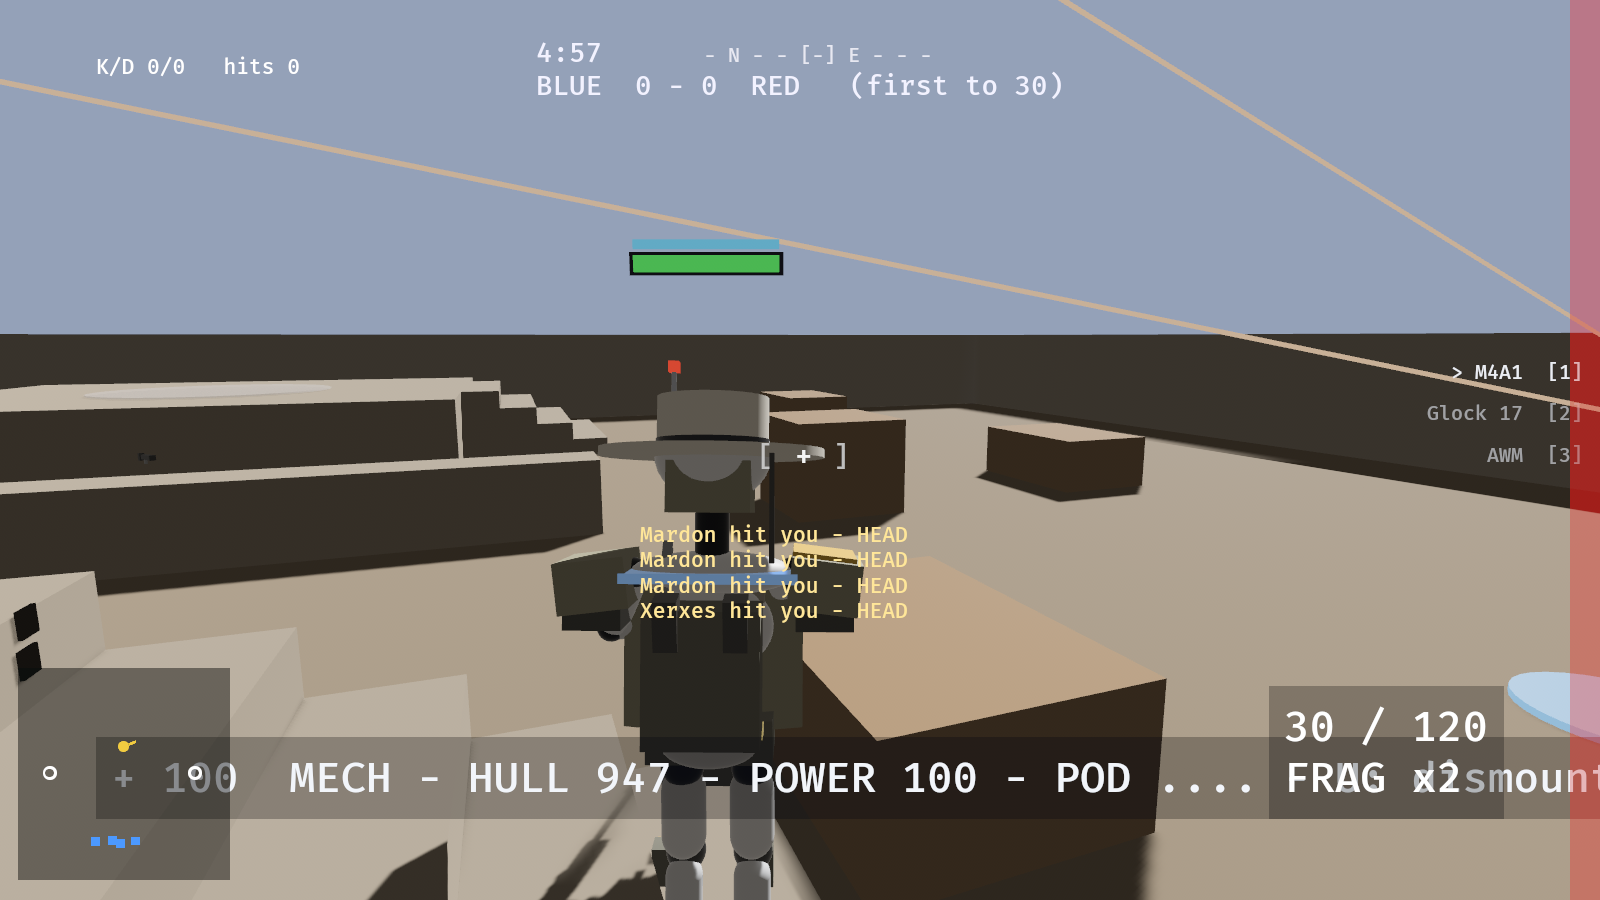
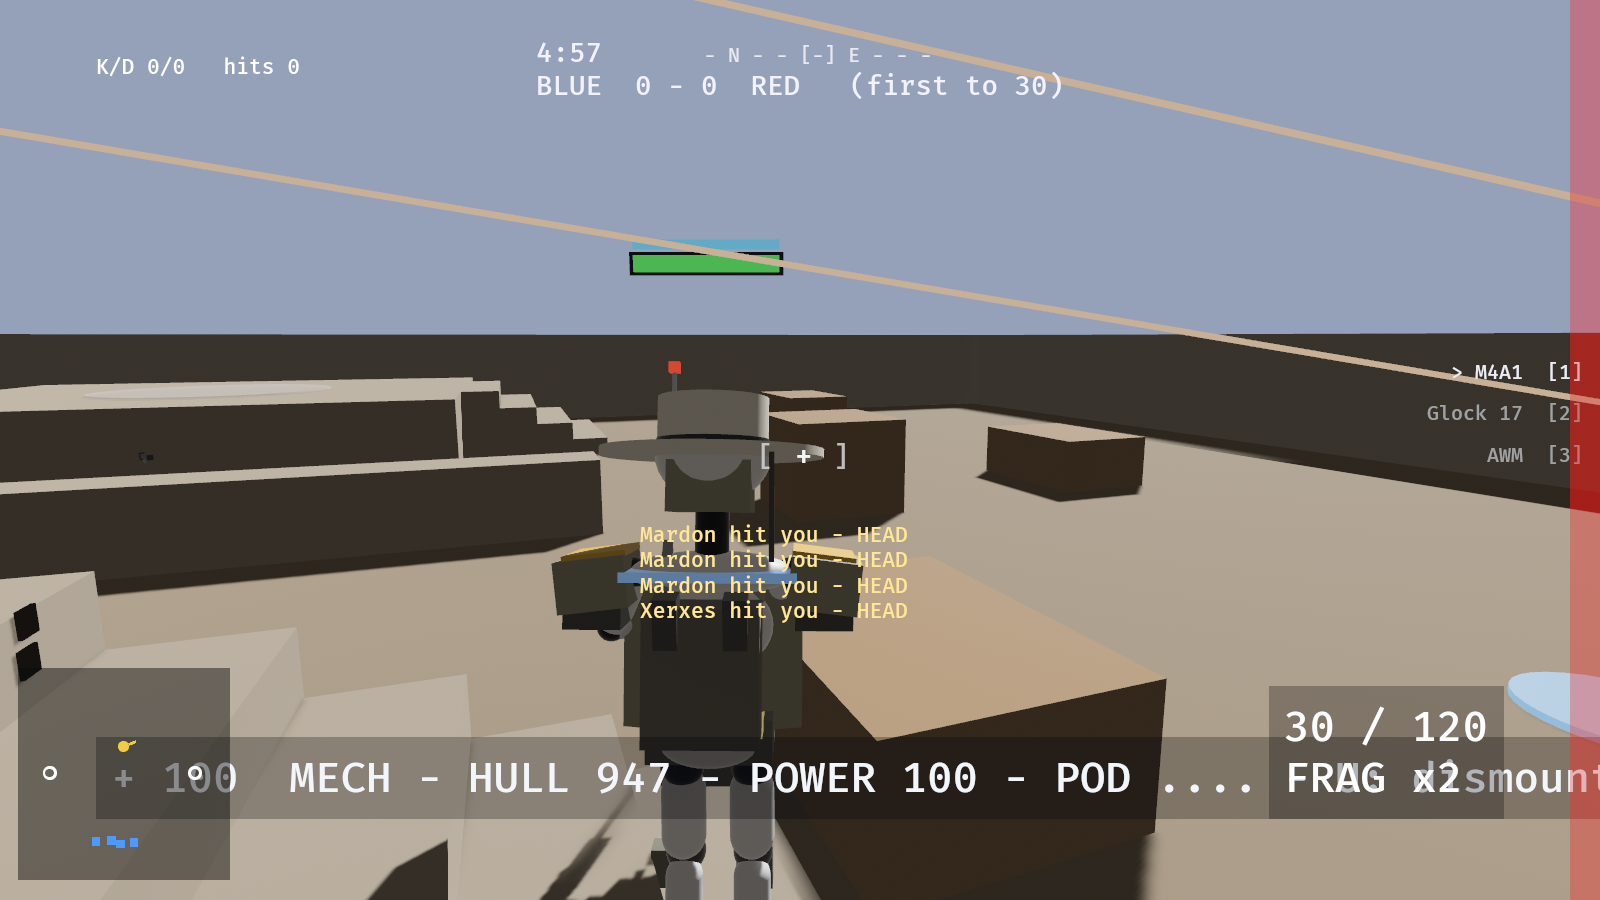
Hazard-chevron and wear-detail pass on the mech hull (3 new plates)
- Right shoulder pod hazard stripe, mirroring the existing left one -
  the pod cover was the ONLY hazard chevron on the whole hull, so the
  right side read as an unfinished mirror of the left.
- Power-pack warning band (thin hazard strip, top edge).
- A bare-metal scuff patch on the abdomen, breaking up the flat khaki
  with the cheapest possible "this hull has seen use" cue (no decal/
  stencil system exists to do this properly - named as still deferred).

plates array 30 -> 33 entries. 92/92 tests green. Verified visually via
the mech_scale capture script (both shoulder pods now read symmetric).

diff --git a/engine/crates/jk_tdm/src/main.rs b/engine/crates/jk_tdm/src/main.rs
@@ -2734,7 +2734,7 @@ fn spawn_armor_rig(commands: &mut Commands, kit: &ModelKit) -> Entity {
     let root = commands
         .spawn((Transform::IDENTITY, Visibility::default()))
         .id();
-    let plates: [(Handle<StandardMaterial>, Vec3, Quat, Vec3); 30] = [
+    let plates: [(Handle<StandardMaterial>, Vec3, Quat, Vec3); 33] = [
         // chest: two canted khaki facets meeting on the centerline
         (kit.mech_khaki.clone(), Vec3::new(0.13, 0.34, 0.10),
          Quat::from_rotation_y(-0.22), Vec3::new(0.30, 0.46, 0.16)),
@@ -2815,6 +2815,22 @@ fn spawn_armor_rig(commands: &mut Commands, kit: &ModelKit) -> Entity {
          Quat::from_rotation_x(0.15), Vec3::new(0.14, 0.06, 0.06)),
         (kit.mech_shadow.clone(), Vec3::new(0.09, -0.01, 0.19),
          Quat::from_rotation_z(0.4), Vec3::new(0.03, 0.09, 0.03)),
+        // hazard/wear detail pass: the pod cover was the ONLY hazard
+        // stripe on the whole hull, so the right side read as an
+        // unfinished mirror. A matching stripe on the (pod-less) right
+        // shoulder pod restores the left/right read as one assembled
+        // machine, not "pod side gets details, other side doesn't."
+        (kit.mech_hazard.clone(), Vec3::new(0.36, 0.685, 0.02),
+         Quat::from_rotation_z(-0.12), Vec3::new(0.20, 0.02, 0.22)),
+        // power-pack warning band - a thin hazard strip across the top
+        // edge, where a real power unit would carry a stenciled warning
+        (kit.mech_hazard.clone(), Vec3::new(0.0, 0.50, -0.135),
+         Quat::IDENTITY, Vec3::new(0.30, 0.02, 0.02)),
+        // scuffed metal patch on the abdomen - bare metal showing through
+        // worn khaki paint, the cheapest possible "this hull has seen use"
+        // cue without a real decal/stencil system
+        (kit.mech_metal.clone(), Vec3::new(0.09, 0.05, 0.16),
+         Quat::from_rotation_z(0.3), Vec3::new(0.08, 0.05, 0.01)),
     ];
     for (mat, tr, rot, sc) in plates {
         commands
